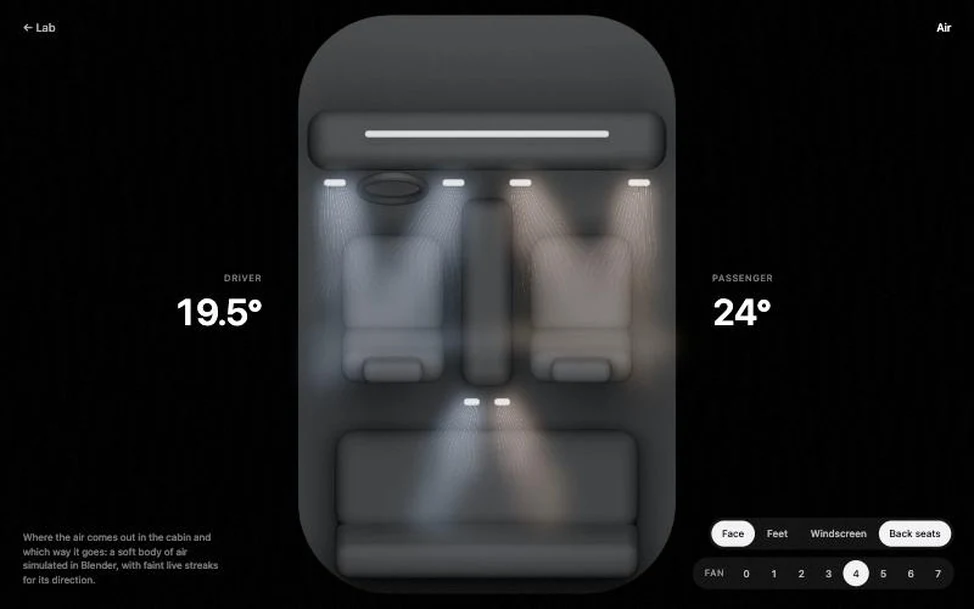
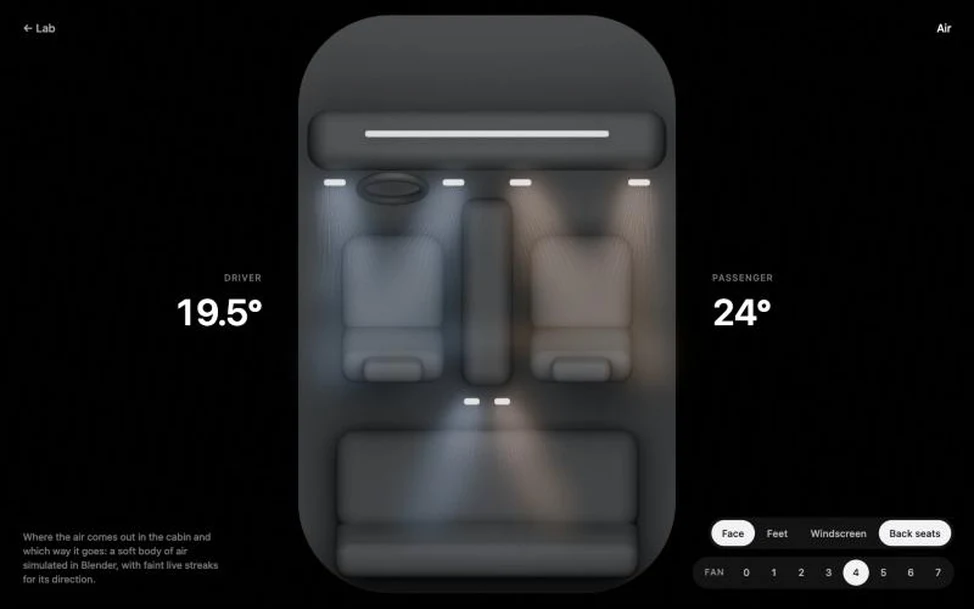
Air: a little less of it, and its streaks straighter and more even

diff --git a/src/air/strands.ts b/src/air/strands.ts
@@ -40,12 +40,12 @@ const settings = {
   /** How much of its full reach the air has with the fan at its lowest, how fast the runs travel at the lowest and at full, and the plume's slow sway. */
   least: 0.35,
   speed: [0.25, 1.1],
-  sway: 0.035,
+  sway: 0.015,
   /** How far the air wavers from its straight line by the end of its reach (as a share of that reach), and how far its edges curl outward. */
-  waver: 0.07,
-  curl: 0.06,
+  waver: 0.03,
+  curl: 0.025,
   /** Brightness of the lines; how much of the picture is left after a 60th of a second; how much of the sharp lines shows through the blur; how strong the blur is. */
-  dot: 0.5,
+  dot: 0.42,
   stays: 0.86,
   grain: 0.3,
   soft: 1.1,
@@ -144,7 +144,7 @@ const air = new THREE.ShaderMaterial({
       float drift = uTime * (0.35 + 0.9 * uFan);
       float billow = 0.62 * sin(6.2831853 * (along * 1.15 - drift * 0.5) + vent * 2.3 + lane * 1.1)
                    + 0.3 * sin(6.2831853 * (along * 2.6 - drift * 0.8) + vent * 4.1 + lane * 2.7)
-                   + 0.11 * sin(6.2831853 * (along * 4.3 - drift * 1.1) + own * 6.2831853);
+                   + 0.04 * sin(6.2831853 * (along * 4.3 - drift * 1.1) + own * 6.2831853);
       float curl = lane * abs(lane) * (0.55 + 0.45 * sin(6.2831853 * (along * 1.7 - drift * 0.6) + vent));
       p += beside * (billow * uTurn.x + curl * uTurn.y) * loose * form.x;
       gl_Position = vec4(p * uShape, 0.0, 1.0);

diff --git a/src/air/air.css b/src/air/air.css
@@ -5,7 +5,7 @@
 .air-page #car img, .air-page #car video { position: absolute; inset: 0; width: 100%; height: 100%; display: block; object-fit: contain; pointer-events: none; }
 /* A film shows only where its air is brighter than what is under it, so its black is no cover. */
 /* It is also softened a little: rendered smoke has harder edges than air should seem to. */
-.air-page #car video { mix-blend-mode: screen; opacity: 0; transition: opacity 0.7s ease; filter: blur(1.5vmin) saturate(1.6); }
+.air-page #car video { mix-blend-mode: screen; opacity: 0; transition: opacity 0.7s ease; filter: blur(1.9vmin) saturate(1.6); }
 /* The live streaks, over the films: shown only where brighter, like them. */
 .air-page canvas { position: fixed; inset: 0; width: 100%; height: 100%; display: block; mix-blend-mode: screen; pointer-events: none; }
 .air-page header { position: fixed; top: 0; left: 0; right: 0; display: flex; justify-content: space-between; padding: 26px 30px; pointer-events: none; }

diff --git a/src/air/main.ts b/src/air/main.ts
@@ -23,7 +23,7 @@ const settings = {
   /** The fan: its levels, the one it starts at, how strongly air shows at the lowest and at full (0–1), and how fast the film plays at each. */
   levels: 7,
   fan: 4,
-  shows: [0.2, 0.52],
+  shows: [0.15, 0.42],
   plays: [0.5, 1.4],
   temperatures: { driver: 19.5, passenger: 24 },
 }
